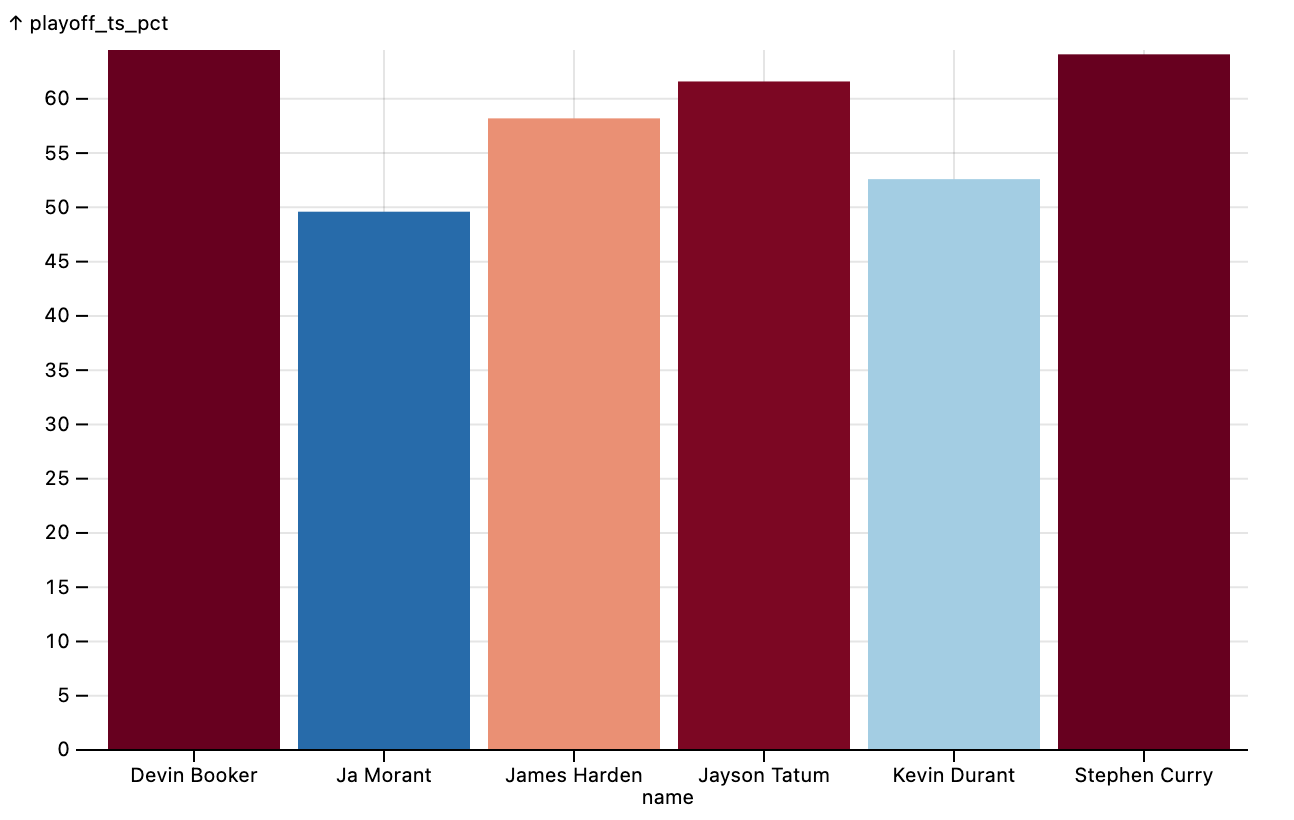
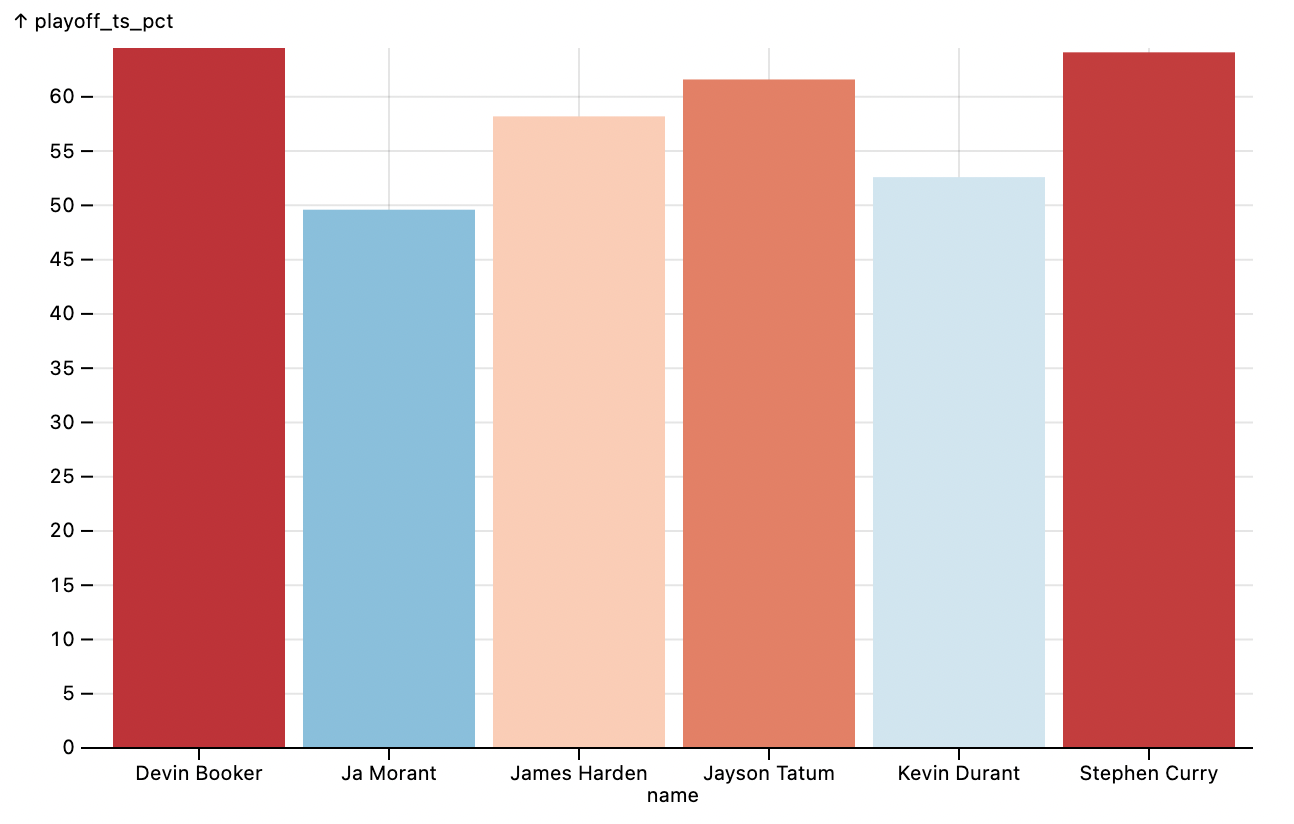
better home page

diff --git a/index.html b/index.html
@@ -1,8 +1,24 @@
 <!DOCTYPE html>
-<html><head><title>plot</title>
+<html>
+  <head>
+    <meta name="viewport" content="width=device-width, initial-scale=1">
+<style>
+body {
+  width: 640px;
+  margin: 40px auto 0 auto;
+}
+</style>
+    <title>plot</title>
   <body>
+    <h1>Observable Plot Template</h1>
     <div id="plot">
     </div>
+    <h2>Observable Plot Documentation</h2>
+    <ul>
+      <li><a href="https://observablehq.com/@observablehq/plot">https://observablehq.com/@observablehq/plot</a>
+</li>
+      <li><a href="https://github.com/observablehq/plot">https://github.com/observablehq/plot</a></li>
+    </ul>
     <script src="dist/index.js"></script>
   </body>
 </html>

diff --git a/index.ts b/index.ts
@@ -2,9 +2,10 @@ import * as Plot from "@observablehq/plot";
 
 async function main(): Promise<void> {
   const barchart = Plot.plot({
+    width: 640,
     grid: true,
     color: {
-      domain: [52, 62],
+      domain: [52, 68],
       pivot: 55,
       scheme: "BuRd",
     },
